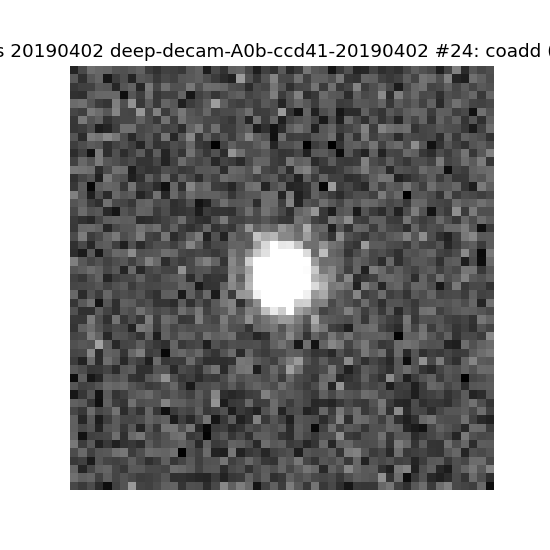
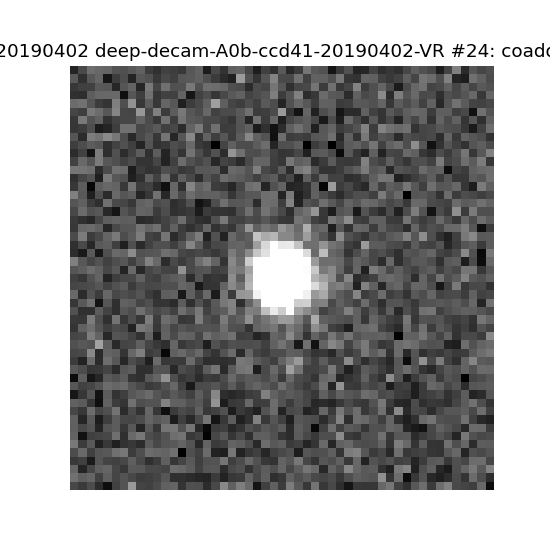
Reproduce against ccd41, and make the result example use our own seeded search
The reproduction compared ccd42 by mistake; the example result is ccd41's
result 24. search_ccd42.sh becomes search_ccd41.sh (report regenerated for
ccd41), and result_ccd41_24.sh now runs 'search run' instead of ingesting
salad's results. Result 24 is identical between the runs; the regenerated
images differ only in their titles (and 16 anti-aliased pixels in sky.png).

Changed region(s): [[0.0, 0.0618, 1.0, 0.1236]]

diff --git a/examples/viz_result.py b/examples/viz_result.py
@@ -18,8 +18,8 @@ gathered (observed) detections colored by time, with its tracklet's predicted
 track as an arrow over the searched time span and an x at the predicted
 position in every exposure.
 
-Needs ``ingest searches``, ``ingest images`` and ``ingest results`` already
-done (``result_ccd41_24.sh`` does all of them). Only the four images are
+Needs ``ingest searches``, ``ingest images`` and the run's results already
+in the database (``result_ccd41_24.sh`` ingests the first two and runs the search). Only the four images are
 kept in OUT_DIR; the per-exposure cutouts go to a temporary directory.
 """
 import argparse

diff --git a/examples/README.md b/examples/README.md
@@ -27,8 +27,8 @@ cd examples
 ./mpchecker_612388.sh
 ./mpc_observation_592187.sh
 ./synthetic_503133.sh
-./search_ccd42.sh   # reruns a salad search and compares it; see the table
-./result_ccd41_24.sh   # also needs a find-asteroids results database; see below
+./search_ccd41.sh   # reruns a salad search and compares it; see the table
+./result_ccd41_24.sh   # runs our own search first, so it needs the detect engine built
 NIGHT=20190403 FIELD=A0c DETECTOR=10 RESULT_NUM=3 ./result_ccd41_24.sh   # any other result
 ```
 
@@ -50,8 +50,8 @@ available.
 | `mpchecker_612388.sh` | mpchecker ephemeris, 2002 PV170 (permid 612388) | 20220825 / B1e | 92/93 predictions on-chip |
 | `mpc_observation_592187.sh` | MPC observation, 2014 QZ79 (permid 592187), trkid `00000FFqBy` | 20201019 / B1d | 88/88 observations on-chip; a second trkid for the same object that night is flagged `same_obstime_conflict` and intentionally not used here (see the script's own comment) |
 | `synthetic_503133.sh` | synthetic TNO binary, orbit_id 503133 (4.0" separation) | 20190708 / B0a | 121/121 on-chip for both components; wide enough to see barycenter vs. photocenter differ by eye |
-| `result_ccd41_24.sh` | find-asteroids result 24 of `deep-decam-A0b-ccd41-20190402` (from salad's search) | 20190402 / A0b | a real-looking mover: stacked forced-photometry SNR ~100 across all 103 exposures. Copies the run from `$RESULTS_DB` (default salad's Postgres, `postgresql://$USER@localhost:55432/salad`), then `viz_result.py` measures at the result's own tracklet position (at deep-db's UTC midpoint in TAI plus salad's 0.5 s shutter label). Defaults to that result, but `$NIGHT`/`$FIELD`/`$DETECTOR`/`$RESULT_NUM` (and `$RUN_ID`, `$SHUTTER_OFFSET_SECONDS`) select another. Writes `light_curve.png`, `coadd.png`, `movie.gif` and `sky.png` (observed gathered detections vs. the tracklet's predicted positions, after salad's `render_sky_plot`) to `docs/examples/viz/result_<night>_ccd<detector>_<result>/` |
-| `search_ccd42.sh` | `search run` on band VR, detector 42, then `compare_search.py` against salad's earlier run, plus the refinement's seed-to-seed noise floor | 20190402 / A0b | the reproducibility check for #16. Needs the detect engine built and salad's Postgres (`$RESULTS_DB`) up; `$NIGHT`/`$FIELD`/`$DETECTOR`/`$BAND` select another search. Writes its report to `docs/examples/search/` |
+| `result_ccd41_24.sh` | result 24 of `deep-decam-A0b-ccd41-20190402-VR`, from our own seeded search (the one `search_ccd41.sh` compares with salad's) | 20190402 / A0b | a real-looking mover: stacked forced-photometry SNR ~100 across all 103 exposures. Runs `search run` (detects, searches, ingests) with salad's 0.5 s shutter label, then `viz_result.py` measures at the result's own tracklet position, evaluated at the same labelled times. `$NIGHT`/`$FIELD`/`$DETECTOR`/`$BAND`/`$RESULT_NUM` (and `$RUN_ID`, `$SHUTTER_OFFSET_SECONDS`, `$REMOVE_CATALOGS`) select another. Writes `light_curve.png`, `coadd.png`, `movie.gif` and `sky.png` (observed gathered detections vs. the tracklet's predicted positions, after salad's `render_sky_plot`) to `docs/examples/viz/result_<night>_ccd<detector>_<result>/` |
+| `search_ccd41.sh` | `search run` on band VR, detector 41, then `compare_search.py` against salad's earlier run, plus the refinement's seed-to-seed noise floor | 20190402 / A0b | the reproducibility check for #16. Needs the detect engine built and salad's Postgres (`$RESULTS_DB`) up; `$NIGHT`/`$FIELD`/`$DETECTOR`/`$BAND` select another search. Writes its report to `docs/examples/search/` |
 
 Each writes `light_curve.png`, `coadd.png`, `movie.gif` and one `<id>.fits`
 cutout per exposure -- see the main README's "Visualizing known objects"

diff --git a/README.md b/README.md
@@ -270,24 +270,30 @@ inside a Slurm job). Parallelism is sized from the Slurm allocation, never
 
 ### Reproducing salad's run
 
-`examples/search_ccd42.sh` reruns band VR, night 20190402, field A0b,
-detector 42 and compares it with salad's earlier run
-(`docs/examples/search/`), level by level:
+`examples/search_ccd41.sh` reruns band VR, night 20190402, field A0b,
+detector 41 (103 exposures, 50 results) and compares it with salad's earlier
+run (report in `docs/examples/search/`), level by level:
 
 | level | result |
 |---|---|
-| L0 detector | all 3,682 distinct points salad's search gathered are found in the new catalog **exactly** (0" apart, identical flux and mag); the time labels agree to 0.04 ms |
+| L0 detector | all 7,065 distinct points salad's search gathered are found in the new catalog **exactly** (0" apart, identical flux and mag); the time labels agree to 0.04 ms |
 | L1 Hough | `(x, y, direction, n)` identical for all 50 results, in the same order |
-| L2 refinement | 12/50 results' tracklets differ by more than 0.05" somewhere in the span (max 20"); rerunning with seed 1 or 2 differs from seed 0 in 10-13/50 (max 24"), the same size |
-| L3 outputs | the Hough-stage `points` sets are identical for all 50; the `gathered` sets are identical for 42/50 (median Jaccard 1.0) |
+| L2 refinement | 19/50 results' tracklets differ by more than 0.05" somewhere in the span (max 2.0"); rerunning with seed 1 or 2 differs from seed 0 in 16-17/50 (max 1.2"), the same size |
+| L3 outputs | the Hough-stage `points` sets are identical for all 50; the `gathered` sets are identical for 32/50 (min Jaccard 0.96, median 1.0) |
 
 So everything but the unseeded refinement is reproduced exactly, and the
-differences that remain are the refinement's own seed-to-seed noise.
+differences that remain are the refinement's own seed-to-seed noise. Result 24
+(the example in `result_ccd41_24.sh`) is identical in all of these: same
+Hough cluster, same counts, the same 110 `gathered` points and 105 `points`,
+and a tracklet agreeing to 1e-11 deg/day. Its regenerated figures match the
+ones made from salad's database: the movie is byte-identical, and the three
+plots differ only in their title (the run id now ends in `-VR`) and 16
+anti-aliased pixels along the track in `sky.png`.
 
-Measured cost of that one CCD on 4 CPUs / 8 GB: 103 images detected in 74 s
-(about 2.9 CPU-seconds per image), 9 s for the search, 3 s to ingest, 90 s
-wall in all, 557 MB peak memory (salad's recorded means: 3.3 s per image and
-21 s per search).
+Measured cost of one CCD on 4 CPUs / 8 GB: detecting its 103 images took 23 s
+with the images in the file cache and 74 s cold (about 2.9 CPU-seconds per
+image cold), the search 10 s, the ingest 3 s, and the peak memory was 557 MB
+(salad's recorded means: 3.3 s per image and 21 s per search).
 
 ## Cutouts and forced photometry
 
